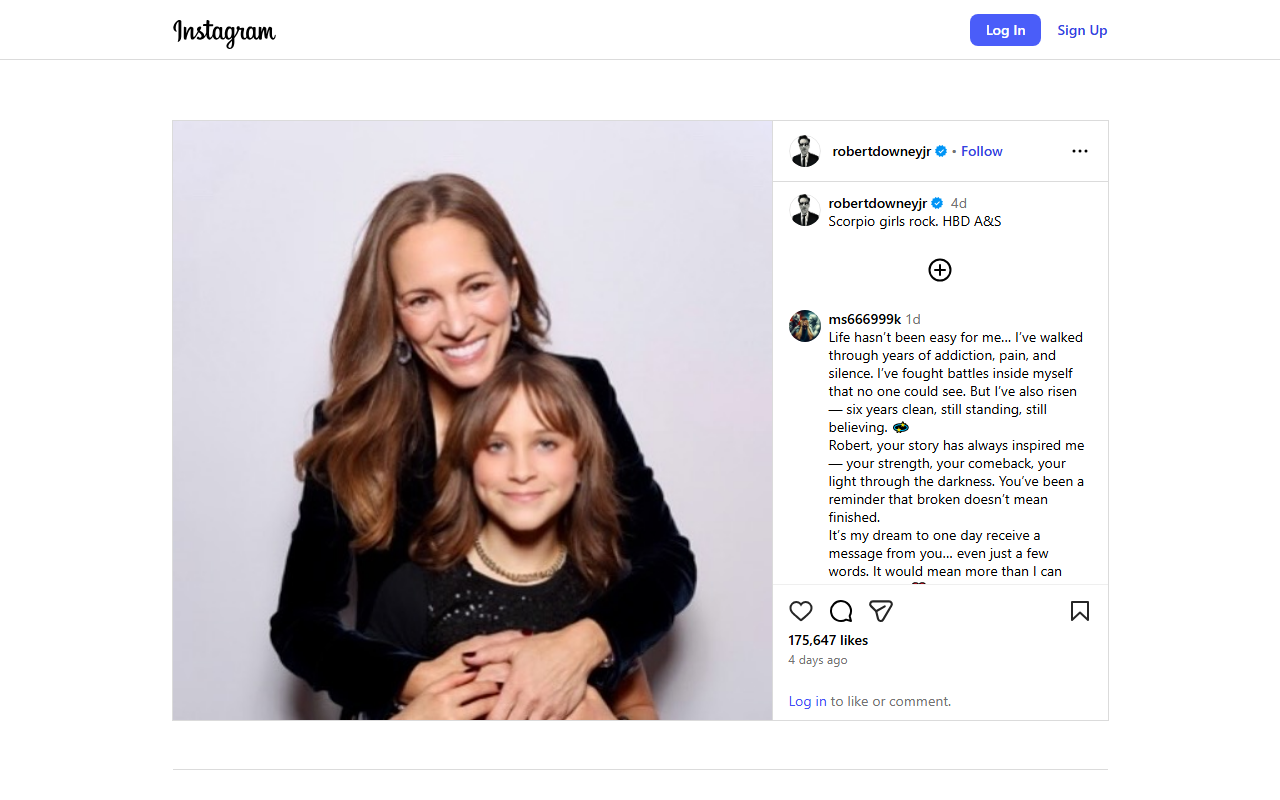
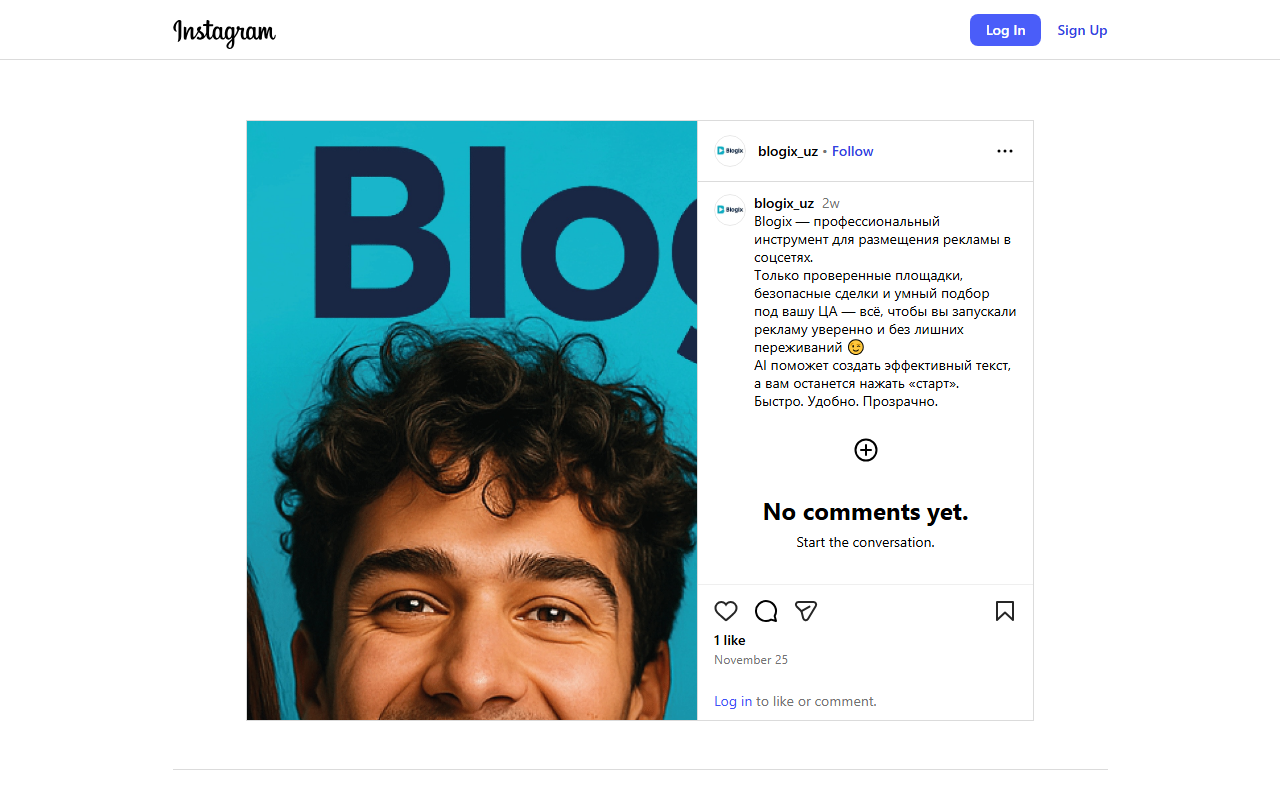
feat: add user bot id's screenshot TG

diff --git a/src/actions/post-screenshot.ts b/src/actions/post-screenshot.ts
@@ -53,11 +53,9 @@ export const postScreenshot = async (url: string, user_bot_id?: string): Promise
   const browser = await chromium.launch({ headless: true });
   let screenshot: Buffer;
 
-  try {
-    // Обработка для Telegram (нужно пройти аутентификацию)
     if (isTelegramUrl(url)) {
-      log.info(`Обработка Telegram URL | Post Url = ${url}`);
-      const auth_path = "src/auth/telegram/user_bot_1/auth.json";
+      log.info(`Обработка Telegram URL | Post Url = ${url} | User Bot ID = ${user_bot_id}`);
+      const auth_path = `src/auth/telegram/user_bot_${user_bot_id || 1}/auth.json`;
       await ensureAuth(auth_path); // Проверка или создание сессии
 
       const context = await browser.newContext({
@@ -100,15 +98,10 @@ export const postScreenshot = async (url: string, user_bot_id?: string): Promise
 
     log.success(`Успешно загружено! | Post Url = ${url} | File name = ${uploadData.file_name}`);
 
+    await browser.close();
+
     return {
       success: true,
       file_name: uploadData.file_name,
     };
-  } catch (error: any) {
-    log.error(`💥 Ошибка при создании скриншота: ${JSON.stringify(error?.data)}`);
-    return { success: false, code: 1004, message: "SCREENSHOT_FAILED" };
-  }
-  finally{
-    await browser.close();
-  }
 };

diff --git a/src/modules/post-screenshot/dto.ts b/src/modules/post-screenshot/dto.ts
@@ -18,4 +18,9 @@ export const PostScreenShotSchema = z.object({
       description: "URL для скриншота (Telegram или Instagram)",
       example: "https://www.instagram.com/reel/DQHfm-FiNrG/?igsh=c2ZpNG4wYXU0a3dx",
     }),
-}).openapi(ENUM_REGISTER_ROUTE.POST_SCREENSHOT);
+  user_bot_id: z.string().optional().openapi({
+    description: "ID бота Telegram для авторизации",
+    example: "7697061334",
+  })
+    })
+  .openapi(ENUM_REGISTER_ROUTE.POST_SCREENSHOT)

diff --git a/src/modules/post-screenshot/post-screenshot.controller.ts b/src/modules/post-screenshot/post-screenshot.controller.ts
@@ -18,12 +18,11 @@ export const createPostScreenshot = async (req: Request, res: Response) => {
         });
     }
 
-    const { post_url } = parsed.data;
+    const { post_url, user_bot_id } = parsed.data;
     
     try {
         
-        const result = await postScreenshot(post_url);
-
+        const result = await postScreenshot(post_url, user_bot_id);
         if (!result.success) {
             return res.status(400).json({
                 ...result

diff --git a/src/modules/auth/telegram.auth.ts b/src/modules/auth/telegram.auth.ts
@@ -9,7 +9,8 @@ interface UserBot {
 
 // === Задай список ботов ===
 const userBots: UserBot[] = [
-  { id: 1},
+  { id: 7697061334},
+    { id: 7487149368},
 ];
 
 // === Папка для сохранения сессий ===
